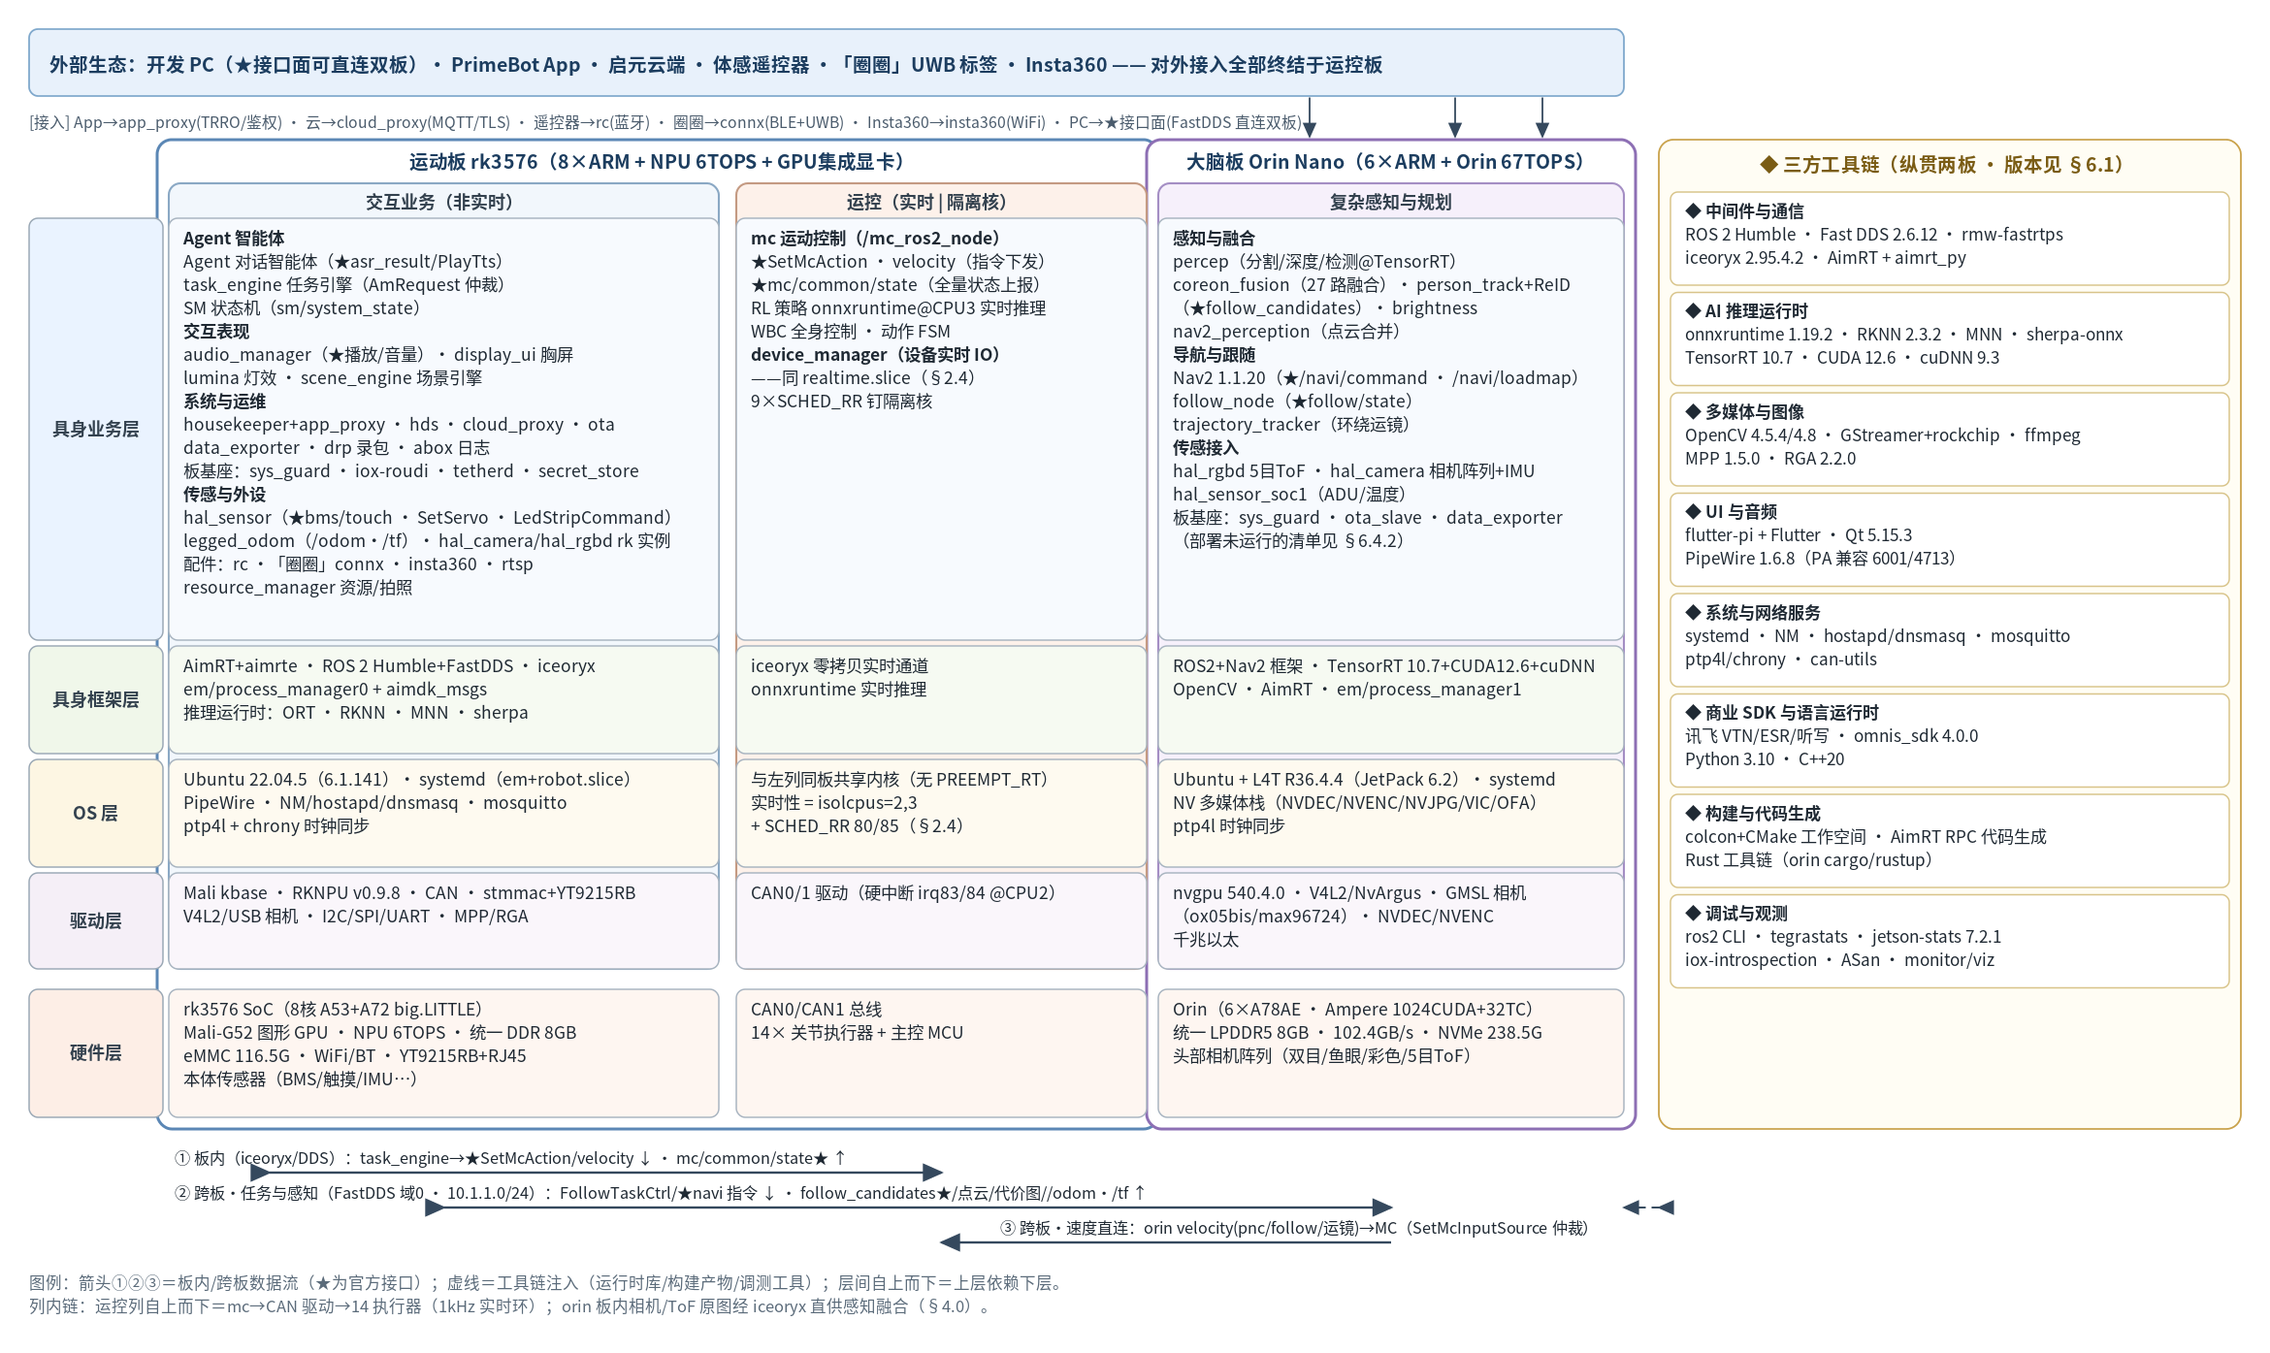
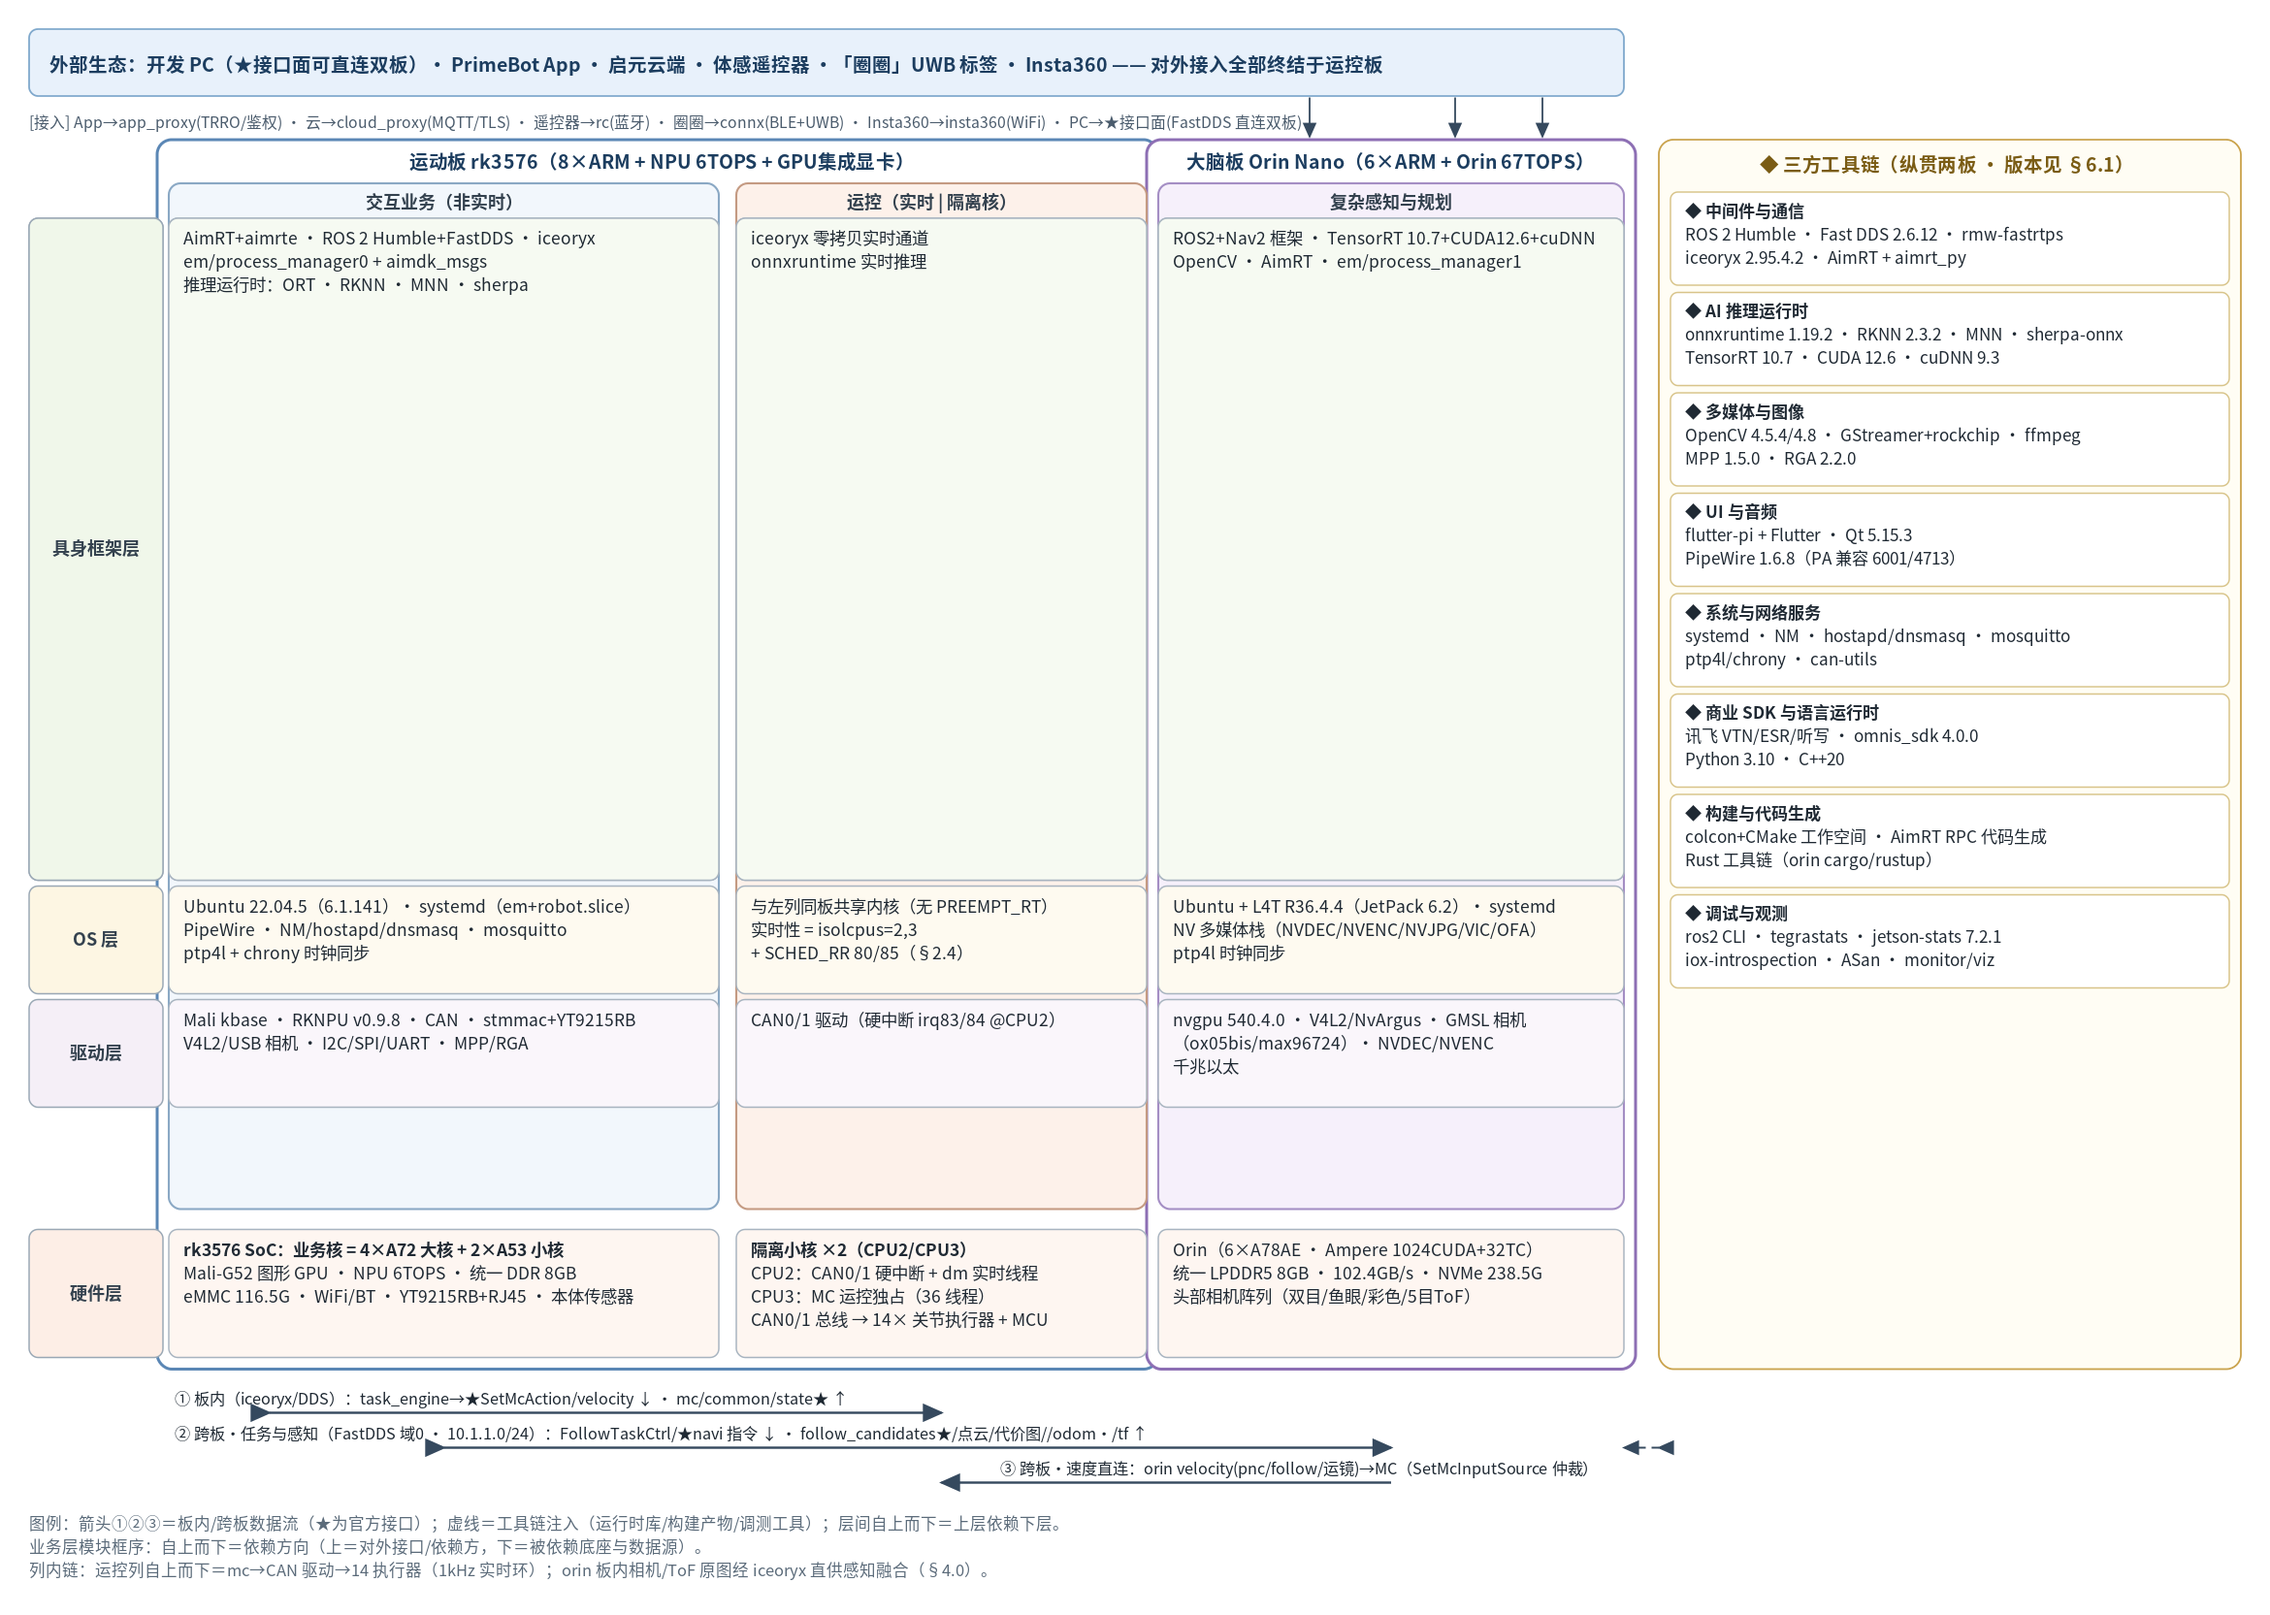
图 7-1 业务层模块框化与依赖排序；硬件层补核心构成标题
- 具身业务层每模块独立成框（共 14 框），框序按依赖与对外层次逻辑：上=对外接口/依赖方、下=被依赖底座与数据源（orin 列感知/导航顺序按依赖倒转：导航在上感知居中传感在下；运控列 mc 上 dm 下；图例与文档图注同步）
- 硬件层：rk3576 框加标题「业务核 = 4×A72 大核 + 2×A53 小核」并精简内容；CAN 框加标题「隔离小核 ×2（CPU2/CPU3）」并按核重整（CPU2=CAN 中断+dm 实时线程 / CPU3=MC 运控独占 / CAN→14 执行器）
- 画布加高至 1110px；SVG(21KB, XML 校验通过)+PNG(1.5x) 重新生成

diff --git a/figures/gen_fig_7_1.py b/figures/gen_fig_7_1.py
@@ -38,10 +38,10 @@ def arrow(x1, y1, x2, y2, color='#35495e', both=True, dash='', sw=1.6):
 
 S = []
 S.append('<?xml version="1.0" encoding="UTF-8"?>')
-S.append('<svg xmlns="http://www.w3.org/2000/svg" width="1560" height="930" viewBox="0 0 1560 930">')
+S.append('<svg xmlns="http://www.w3.org/2000/svg" width="1560" height="1110" viewBox="0 0 1560 1110">')
 S.append('<defs><marker id="ah" markerWidth="9" markerHeight="8" refX="8" refY="4" orient="auto">'
          '<path d="M0,0 L9,4 L0,8 z" fill="#35495e"/></marker></defs>')
-S.append('<rect x="0" y="0" width="1560" height="930" fill="#ffffff"/>')
+S.append('<rect x="0" y="0" width="1560" height="1110" fill="#ffffff"/>')
 
 # ---------- 版面常量 ----------
 LBL_X, LBL_W = 20, 92
@@ -51,7 +51,7 @@ C3_X, C3_W = 796, 320                 # orin
 TC_X, TC_W = 1140, 400                # 工具链（纵贯）
 PAD = 8
 BOARD_Y0, BOARD_TITLE_H, PART_TITLE_H = 96, 30, 24
-ROW_H = [290, 74, 74, 66]             # 业务/框架/OS/驱动（部分框内四层）
+ROW_H = [455, 74, 74, 66]             # 业务(模块框化)/框架/OS/驱动（部分框内四层）
 HW_H = 88                             # 硬件层（板框内、部分框外）
 EXT_Y, EXT_H = 20, 46
 
@@ -66,50 +66,29 @@ HW_BOT = HW_Y + HW_H                                  # 768
 BOARD_BOT = HW_BOT + PAD                              # 776
 
 # ---------- 内容 ----------
-biz_c1 = [
- ('Agent 智能体', True),
- ('Agent 对话智能体（★asr_result/PlayTts）', False),
- ('task_engine 任务引擎（AmRequest 仲裁）', False),
- ('SM 状态机（sm/system_state）', False),
- ('交互表现', True),
- ('audio_manager（★播放/音量）· display_ui 胸屏', False),
- ('lumina 灯效 · scene_engine 场景引擎', False),
- ('系统与运维', True),
- ('housekeeper+app_proxy · hds · cloud_proxy · ota', False),
- ('data_exporter · drp 录包 · abox 日志', False),
- ('板基座：sys_guard · iox-roudi · tetherd · secret_store', False),
- ('传感与外设', True),
- ('hal_sensor（★bms/touch · SetServo · LedStripCommand）', False),
- ('legged_odom（/odom·/tf）· hal_camera/hal_rgbd rk 实例', False),
- ('配件：rc ·「圈圈」connx · insta360 · rtsp', False),
- ('resource_manager 资源/拍照', False),
+BIZ_COLS = [
+ [  # rk·交互业务：对外接口与依赖方在上，数据源与板基座在下
+  ('housekeeper + app_proxy', ['App 接入鉴权 · 网络/蓝牙/权限（ConnectRobot）']),
+  ('Agent 智能体', ['★asr_result/PlayTts · LLM 对话与意图']),
+  ('task_engine 任务引擎', ['AmRequest 仲裁 · 长任务编排']),
+  ('SM 状态机', ['sm/system_state · SmNodeService 驱动各应用']),
+  ('交互表现', ['audio_manager（★播放/音量）· display_ui 胸屏', 'lumina 灯效 · scene_engine 场景']),
+  ('运维链', ['hds · cloud_proxy · ota · data_exporter · drp · abox']),
+  ('传感与外设', ['hal_sensor（★bms/touch · SetServo · 灯语）', 'legged_odom（/odom·/tf）· rk 相机/ToF 实例', '配件：rc · 圈圈 · insta360 · resource_manager']),
+  ('板基座', ['sys_guard · iox-roudi · tetherd · secret_store']),
+ ],
+ [  # rk·运控：mc 对上暴露 ★接口，device_manager 为更底层设备 IO
+  ('mc 运动控制', ['★SetMcAction · velocity（指令下发）', '★mc/common/state（全量状态上报）', 'RL 策略@CPU3 · WBC · 动作 FSM']),
+  ('device_manager 设备实时 IO', ['与 mc 同 realtime.slice（§2.4）', '9×SCHED_RR 钉隔离核']),
+ ],
+ [  # orin：任务产出层在上，感知融合居中，传感数据源与板基座在下
+  ('导航与跟随', ['Nav2 1.1.20（★navi 指令/地图加载）', 'follow_node（★follow/state）', 'trajectory_tracker（环绕运镜）']),
+  ('感知与融合', ['percep（分割/深度/检测@TRT）', 'coreon_fusion（27 路融合）', 'person_track+ReID（★follow_candidates）', 'brightness · nav2_perception（点云合并）']),
+  ('传感接入', ['hal_rgbd 5目ToF · hal_camera 相机阵列+IMU', 'hal_sensor_soc1（ADU/温度）']),
+  ('板基座', ['sys_guard · ota_slave · data_exporter', '（部署未运行清单见 §6.4.2）']),
+ ],
 ]
-biz_c2 = [
- ('mc 运动控制（/mc_ros2_node）', True),
- ('★SetMcAction · velocity（指令下发）', False),
- ('★mc/common/state（全量状态上报）', False),
- ('RL 策略 onnxruntime@CPU3 实时推理', False),
- ('WBC 全身控制 · 动作 FSM', False),
- ('device_manager（设备实时 IO）', True),
- ('——同 realtime.slice（§2.4）', False),
- ('9×SCHED_RR 钉隔离核', False),
-]
-biz_c3 = [
- ('感知与融合', True),
- ('percep（分割/深度/检测@TensorRT）', False),
- ('coreon_fusion（27 路融合）· person_track+ReID', False),
- ('（★follow_candidates）· brightness', False),
- ('nav2_perception（点云合并）', False),
- ('导航与跟随', True),
- ('Nav2 1.1.20（★/navi/command · /navi/loadmap）', False),
- ('follow_node（★follow/state）', False),
- ('trajectory_tracker（环绕运镜）', False),
- ('传感接入', True),
- ('hal_rgbd 5目ToF · hal_camera 相机阵列+IMU', False),
- ('hal_sensor_soc1（ADU/温度）', False),
- ('板基座：sys_guard · ota_slave · data_exporter', False),
- ('（部署未运行的清单见 §6.4.2）', False),
-]
+
 fw_c1 = [
  ('AimRT+aimrte · ROS 2 Humble+FastDDS · iceoryx', False),
  ('em/process_manager0 + aimdk_msgs', False),
@@ -131,21 +110,21 @@ dr_c2 = [('CAN0/1 驱动（硬中断 irq83/84 @CPU2）', False)]
 dr_c3 = [('nvgpu 540.4.0 · V4L2/NvArgus · GMSL 相机', False),
          ('（ox05bis/max96724）· NVDEC/NVENC', False),
          ('千兆以太', False)]
-hw_c1 = [('rk3576 SoC（8核 A53+A72 big.LITTLE）', False),
+hw_c1 = [('rk3576 SoC：业务核 = 4×A72 大核 + 2×A53 小核', True),
          ('Mali-G52 图形 GPU · NPU 6TOPS · 统一 DDR 8GB', False),
-         ('eMMC 116.5G · WiFi/BT · YT9215RB+RJ45', False),
-         ('本体传感器（BMS/触摸/IMU…）', False)]
-hw_c2 = [('CAN0/CAN1 总线', False),
-         ('14× 关节执行器 + 主控 MCU', False)]
+         ('eMMC 116.5G · WiFi/BT · YT9215RB+RJ45 · 本体传感器', False)]
+hw_c2 = [('隔离小核 ×2（CPU2/CPU3）', True),
+         ('CPU2：CAN0/1 硬中断 + dm 实时线程', False),
+         ('CPU3：MC 运控独占（36 线程）', False),
+         ('CAN0/1 总线 → 14× 关节执行器 + MCU', False)]
 hw_c3 = [('Orin（6×A78AE · Ampere 1024CUDA+32TC）', False),
          ('统一 LPDDR5 8GB · 102.4GB/s · NVMe 238.5G', False),
          ('头部相机阵列（双目/鱼眼/彩色/5目ToF）', False)]
 
-ROWS = [('具身业务层', (biz_c1, biz_c2, biz_c3)),
-        ('具身框架层', (fw_c1, fw_c2, fw_c3)),
+ROWS = [('具身框架层', (fw_c1, fw_c2, fw_c3)),
         ('OS 层', (os_c1, os_c2, os_c3)),
         ('驱动层', (dr_c1, dr_c2, dr_c3))]
-FILLS = ['#f7fafe', '#f6faf2', '#fefaf0', '#faf6fb']
+FILLS = ['#f6faf2', '#fefaf0', '#faf6fb']
 HW_FILL = '#fef6f1'
 LBL_FILLS = ['#eaf3ff', '#f0f7ea', '#fdf6e3', '#f5eff7', '#fdeee6']
 
@@ -182,10 +161,31 @@ for px, pw, pname, pfill, pstroke in PARTS:
                       center=px + pw // 2, maxw=pw - 12)
     S.append(t)
 
-# 四层单元格（三列共享行坐标）
+# 具身业务层：每模块独立成框（上=对外接口/依赖方，下=被依赖底座/数据源）
+def draw_module(px, pw, y, title, lines):
+    h = 17 + int(16.5 * len(lines)) + 9
+    S.append(box(px + 6, y, pw - 12, h, '#ffffff', '#9db3c8', 1, rx=5))
+    t, _ = text_block(px + 16, y + 15, [(title, True)] + [(l, False) for l in lines],
+                      fs=11.6, maxw=pw - 26)
+    S.append(t)
+    return y + h + 4
+
+yt = row_y[0]
+S.append(box(LBL_X, yt, LBL_W, ROW_H[0], LBL_FILLS[0], '#9aa8b5', 1))
+t, _ = text_block(0, yt + ROW_H[0] // 2 + 4, [('具身业务层', True)], fs=12, color='#33414e',
+                  center=LBL_X + LBL_W // 2, maxw=LBL_W - 14)
+S.append(t)
+for ci, (px, pw, *_ ) in enumerate(PARTS):
+    S.append(box(px, yt, pw, ROW_H[0], '#f7fafe', '#a8b4c0', 1))
+    y = yt + 8
+    for title, lines in BIZ_COLS[ci]:
+        y = draw_module(px, pw, y, title, lines)
+    assert y <= yt + ROW_H[0] + 4, f'业务层模块纵向溢出(列{ci})'
+
+# 其余三层单元格（三列共享行坐标）
 for ri, (lname, cont) in enumerate(ROWS):
     yt = row_y[ri]; h = ROW_H[ri]
-    S.append(box(LBL_X, yt, LBL_W, h, LBL_FILLS[ri], '#9aa8b5', 1))
+    S.append(box(LBL_X, yt, LBL_W, h, LBL_FILLS[ri + 1], '#9aa8b5', 1))
     t, _ = text_block(0, yt + h // 2 + 4, [(lname, True)], fs=12, color='#33414e',
                       center=LBL_X + LBL_W // 2, maxw=LBL_W - 14)
     S.append(t)
@@ -244,6 +244,7 @@ S.append(arrow(TC_X, AY2, C3_X + C3_W, AY2, dash='5,4', sw=1.3))
 # ---------- 图例 ----------
 t, _ = text_block(LBL_X, BOARD_BOT + 110, [
     ('图例：箭头①②③＝板内/跨板数据流（★为官方接口）；虚线＝工具链注入（运行时库/构建产物/调测工具）；层间自上而下＝上层依赖下层。', False),
+    ('业务层模块框序：自上而下＝依赖方向（上＝对外接口/依赖方，下＝被依赖底座与数据源）。', False),
     ('列内链：运控列自上而下＝mc→CAN 驱动→14 执行器（1kHz 实时环）；orin 板内相机/ToF 原图经 iceoryx 直供感知融合（§4.0）。', False)],
     fs=11, color='#5b6b7a', lh=16)
 S.append(t)

diff --git a/t1-pro-orin-rk-analysis.md b/t1-pro-orin-rk-analysis.md
@@ -1489,7 +1489,7 @@ sequenceDiagram
 
 ![图 7-1 逻辑视图（双板纵切 × 五层横切 × 工具链纵贯）](figures/fig-7-1-layered-arch.png)
 
-> **图 7-1 读法**：**板框**（运动板 rk3576 / 大脑板 Orin Nano）⊃ **部分框**（交互业务（非实时）/ 运控（实时｜隔离核）/ 复杂感知与规划，各含具身业务→框架→OS→驱动四层，上层依赖下层）；**硬件层**在板框内、部分框正下方；最右列为工具链纵贯；**①②③通信线统一画在图底部**。
+> **图 7-1 读法**：**板框**（运动板 rk3576 / 大脑板 Orin Nano）⊃ **部分框**（交互业务（非实时）/ 运控（实时｜隔离核）/ 复杂感知与规划，各含具身业务→框架→OS→驱动四层，上层依赖下层）；**硬件层**在板框内、部分框正下方（rk3576 框标明业务核=4×A72 大核+2×A53 小核，CAN 框标明 2×隔离小核 CPU2/CPU3）；**具身业务层内每模块独立成框，框序自上而下=依赖方向（上=对外接口/依赖方，下=被依赖底座与数据源）**；最右列为工具链纵贯；**①②③通信线统一画在图底部**。
 > **连线与交互**（图上带编号的箭头）：**① 板内**（rk 业务⇄运控，iceoryx/DDS）——task_engine→★SetMcAction/velocity ↓，mc→★mc/common/state ↑；**② 跨板·任务与感知**（rk 业务⇄orin，内部以太网 10.1.1.0/24 · FastDDS 域 0）——FollowTaskCtrl/★navi 指令 ↓，★follow_candidates/点云/代价图、/odom·/tf ↑（只走结果级数据，相机原图板内消化）；**③ 跨板·速度直连**（orin→MC）——nav2/follow/运镜发布 velocity(pnc/follow)，MC 按 SetMcInputSource 仲裁；**外部接入**——App→app_proxy(TRRO/鉴权)、云→cloud_proxy(MQTT/TLS)、遥控器→rc(蓝牙)、圈圈→connx(BLE+UWB)、Insta360→insta360(WiFi)，全部终结于 rk；PC ★接口面 FastDDS 直连双板；**虚线**=工具链注入。模块级全量接口见 §7.4，连接视角见 §7.2。
 
 读图要点（含对本图排版方案的事实核对，依据 §1–§6 实测）：
